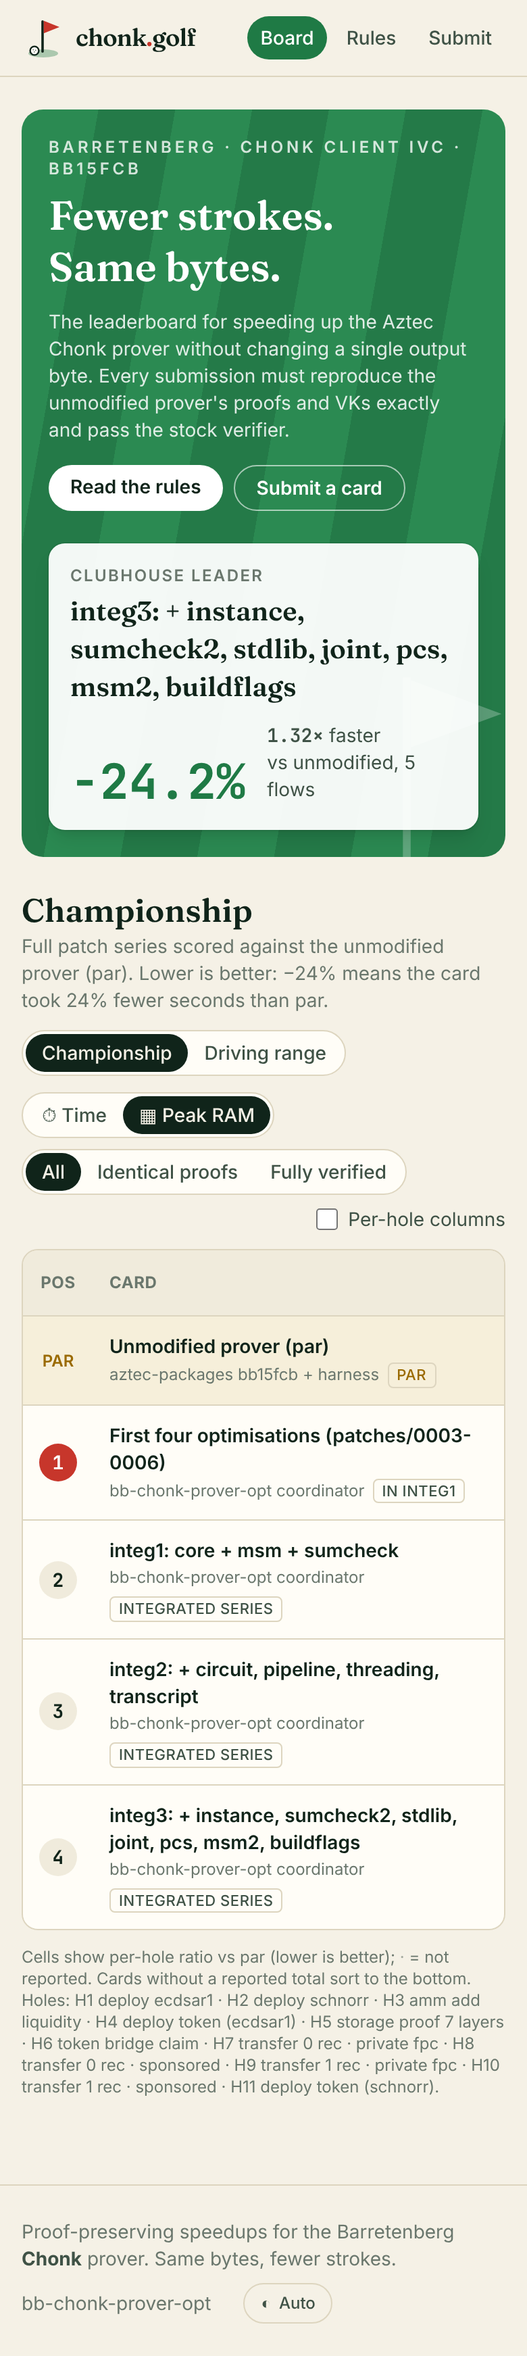
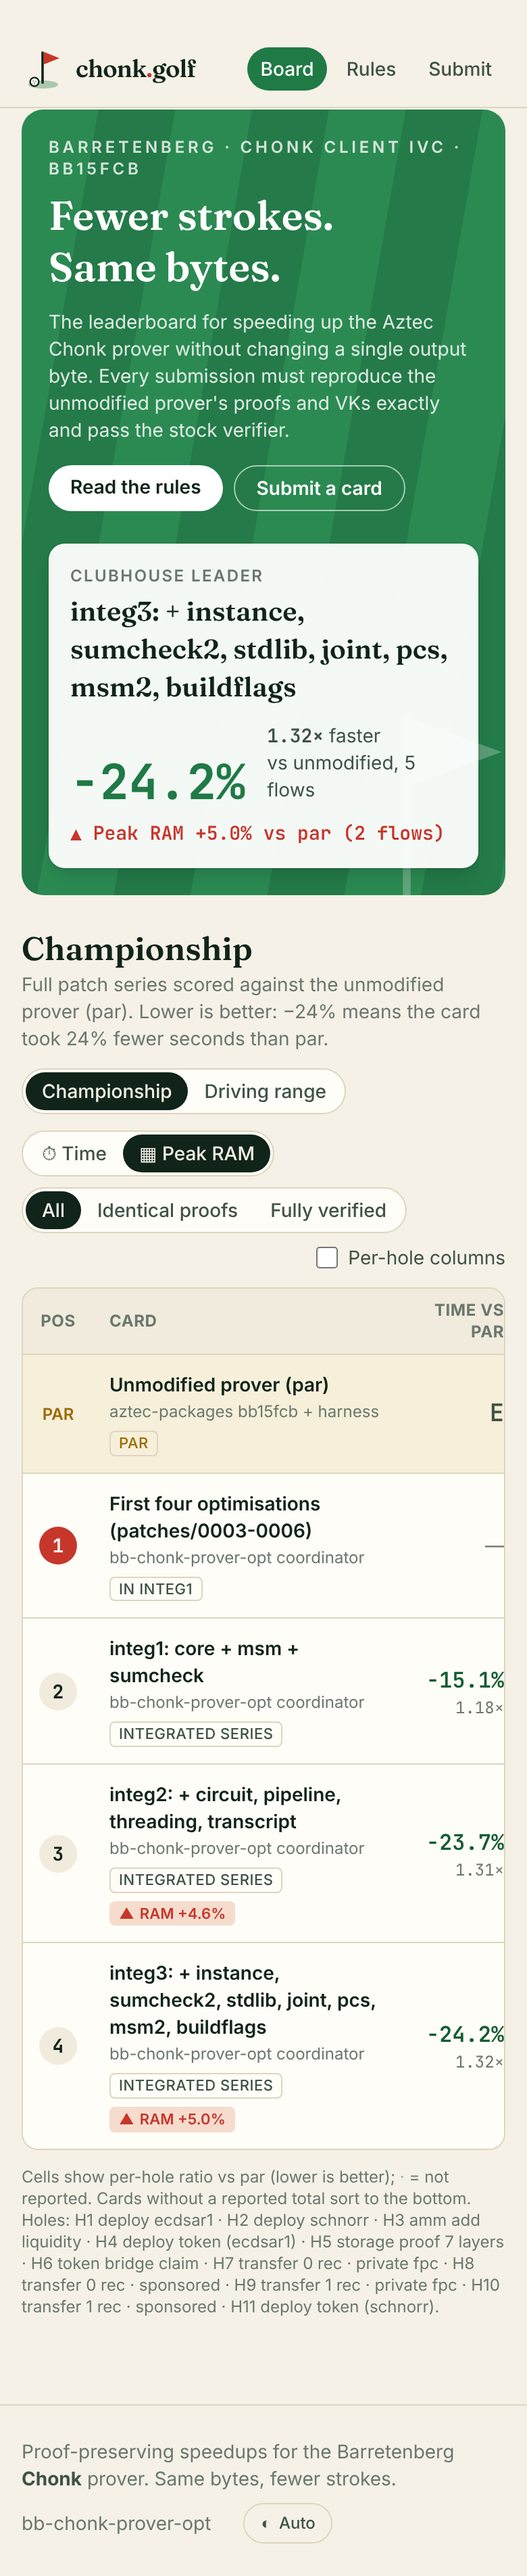
Make peak RAM a first-class score
Leaderboard shows time and RAM vs par side by side (the selected metric ranks), flags RAM regressions
(>1% above par) on the card, the clubhouse leader and the submission page. Screenshots refreshed.

Claude-Session: https://claude.ai/code/session_01RH4a2MGnpVvXjVCCsJcE21

diff --git a/src/pages/Leaderboard.tsx b/src/pages/Leaderboard.tsx
@@ -1,11 +1,12 @@
 import { useMemo, useState } from "react";
-import { StatusChip, VerdictBadge } from "../components/Badges.tsx";
+import { RamRegressionChip, StatusChip, VerdictBadge } from "../components/Badges.tsx";
 import { Segmented } from "../components/Segmented.tsx";
 import { ALL, BY_ID } from "../data.ts";
 import { href } from "../router.ts";
 import { FLOW_COUNT, FLOWS, type FlowName } from "../schema.ts";
 import {
   holeNumber,
+  isRamRegression,
   pctDelta,
   rank,
   withPositions,
@@ -27,19 +28,27 @@ function cellTone(r: number | undefined): string {
   return "";
 }
 
-function ScoreCell({ ratio, metric }: { ratio: number | null; metric: Metric }) {
+function ScoreCell({
+  ratio,
+  metric,
+  ranked,
+}: {
+  ratio: number | null;
+  metric: Metric;
+  ranked: boolean;
+}) {
   if (ratio === null) return <span className="text-muted">—</span>;
   const under = ratio < 0.9995;
   const over = ratio > 1.0005;
   return (
     <span className="flex flex-col items-end leading-tight">
       <span
-        className={`num text-lg font-semibold ${under ? "text-rough" : over ? "text-flag" : "text-ink-2"}`}
+        className={`num font-semibold ${ranked ? "text-lg" : "text-base"} ${under ? "text-rough" : over ? "text-flag" : "text-ink-2"}`}
       >
         {pctDelta(ratio)}
       </span>
-      <span className="num text-xs text-muted">
-        {metric === "time" ? speedup(ratio) : `${ratio.toFixed(3)}×`}
+      <span className="num text-xs whitespace-nowrap text-muted">
+        {metric === "time" ? speedup(ratio) : over ? "more RAM" : under ? "less RAM" : "even"}
       </span>
     </span>
   );
@@ -98,6 +107,13 @@ function Hero({ leader }: { leader: Scored | undefined }) {
                 vs unmodified, {leader.timeFlows ?? "?"} flows
               </span>
             </div>
+            <p
+              className={`num mt-2 text-sm font-semibold ${isRamRegression(leader.ramRatio) ? "text-[#c7362b]" : "text-[#3f5246]"}`}
+            >
+              {isRamRegression(leader.ramRatio) ? "▲ " : ""}Peak RAM {pctDelta(leader.ramRatio)} vs
+              par
+              {leader.ramFlows ? ` (${leader.ramFlows} flows)` : ""}
+            </p>
           </a>
         )}
       </div>
@@ -223,8 +239,11 @@ export function Leaderboard() {
               <tr className="border-b border-line bg-surface-2 text-left text-xs tracking-wide text-muted uppercase">
                 <th className="w-12 px-3 py-2 text-center">Pos</th>
                 <th className="px-3 py-2">Card</th>
-                <th className="px-3 py-2 text-right">
-                  {metric === "time" ? "Time vs par" : "RAM vs par"}
+                <th className={`px-3 py-2 text-right ${metric === "time" ? "text-ink" : ""}`}>
+                  Time vs par{metric === "time" ? " ▾" : ""}
+                </th>
+                <th className={`px-3 py-2 text-right ${metric === "ram" ? "text-ink" : ""}`}>
+                  RAM vs par{metric === "ram" ? " ▾" : ""}
                 </th>
                 <th className="px-3 py-2">Correctness</th>
                 <th className="px-3 py-2 text-right">Flows</th>
@@ -278,16 +297,23 @@ export function Leaderboard() {
                             wasm
                           </span>
                         )}
+                        <RamRegressionChip ratio={x.ramRatio} />
                         {tab === "range" && against && <span>vs {against}</span>}
                       </div>
                     </td>
-                    <td className="px-3 py-3 text-right">
-                      {isPar ? (
-                        <span className="num text-lg font-semibold text-ink-2">E</span>
-                      ) : (
-                        <ScoreCell ratio={ratio} metric={metric} />
-                      )}
-                    </td>
+                    {(["time", "ram"] as const).map((m) => (
+                      <td key={m} className="px-3 py-3 text-right">
+                        {isPar ? (
+                          <span className="num text-lg font-semibold text-ink-2">E</span>
+                        ) : (
+                          <ScoreCell
+                            ratio={m === "time" ? x.timeRatio : x.ramRatio}
+                            metric={m}
+                            ranked={m === metric}
+                          />
+                        )}
+                      </td>
+                    ))}
                     <td className="px-3 py-3">
                       <VerdictBadge verdict={x.verdict} />
                     </td>
@@ -322,7 +348,7 @@ export function Leaderboard() {
               {!rows.length && (
                 <tr>
                   <td
-                    colSpan={5 + (holes ? flowCols.length : 0)}
+                    colSpan={6 + (holes ? flowCols.length : 0)}
                     className="px-3 py-8 text-center text-muted"
                   >
                     No cards match this filter.

diff --git a/src/components/Badges.tsx b/src/components/Badges.tsx
@@ -1,5 +1,5 @@
 import { FLOW_COUNT, type Submission } from "../schema.ts";
-import type { Verdict } from "../score.ts";
+import { isRamRegression, type Verdict } from "../score.ts";
 
 const VERDICT: Record<Verdict, { label: string; icon: string; cls: string; title: string }> = {
   verified: {
@@ -48,6 +48,19 @@ const STATUS: Record<Submission["status"], string> = {
   withdrawn: "Withdrawn",
   wip: "WIP",
 };
+
+/** Visible warning when a card uses more peak RAM than par. */
+export function RamRegressionChip({ ratio }: { ratio: number | null }) {
+  if (!isRamRegression(ratio) || ratio === null) return null;
+  return (
+    <span
+      title="Peak RSS above par: faster but fatter"
+      className="inline-flex items-center gap-1 rounded border border-transparent bg-bad-bg px-1.5 py-px text-[11px] font-semibold text-flag uppercase"
+    >
+      <span aria-hidden>▲</span> RAM +{((ratio - 1) * 100).toFixed(1)}%
+    </span>
+  );
+}
 
 export function StatusChip({ s }: { s: Submission }) {
   const label =

diff --git a/src/pages/Submission.tsx b/src/pages/Submission.tsx
@@ -1,5 +1,10 @@
 import type { ReactNode } from "react";
-import { CorrectnessList, StatusChip, VerdictBadge } from "../components/Badges.tsx";
+import {
+  CorrectnessList,
+  RamRegressionChip,
+  StatusChip,
+  VerdictBadge,
+} from "../components/Badges.tsx";
 import { FlowBars } from "../components/FlowBars.tsx";
 import { blobUrl } from "../config.ts";
 import { BY_ID } from "../data.ts";
@@ -58,6 +63,7 @@ export function SubmissionPage({ id }: { id: string }) {
         <div className="mt-3 flex flex-wrap items-center gap-2">
           <VerdictBadge verdict={x.verdict} />
           <StatusChip s={s} />
+          <RamRegressionChip ratio={x.ramRatio} />
           <span className="rounded border border-line px-1.5 py-px text-[11px] font-medium text-ink-2 uppercase">
             {s.kind === "series" ? "Championship" : s.kind === "delta" ? "Driving range" : "Par"}
           </span>

diff --git a/src/score.ts b/src/score.ts
@@ -114,6 +114,11 @@ export function withPositions(ranked: Scored[], metric: Metric) {
   return out;
 }
 
+/** Peak RSS above par by more than this fraction is flagged as a RAM regression (1% ≈ measurement noise). */
+export const RAM_REGRESSION_THRESHOLD = 0.01;
+export const isRamRegression = (ratio: number | null) =>
+  ratio !== null && ratio > 1 + RAM_REGRESSION_THRESHOLD;
+
 /** "−24.2%" style delta vs par. */
 export function pctDelta(ratio: number | null, digits = 1): string {
   if (ratio === null) return "—";
